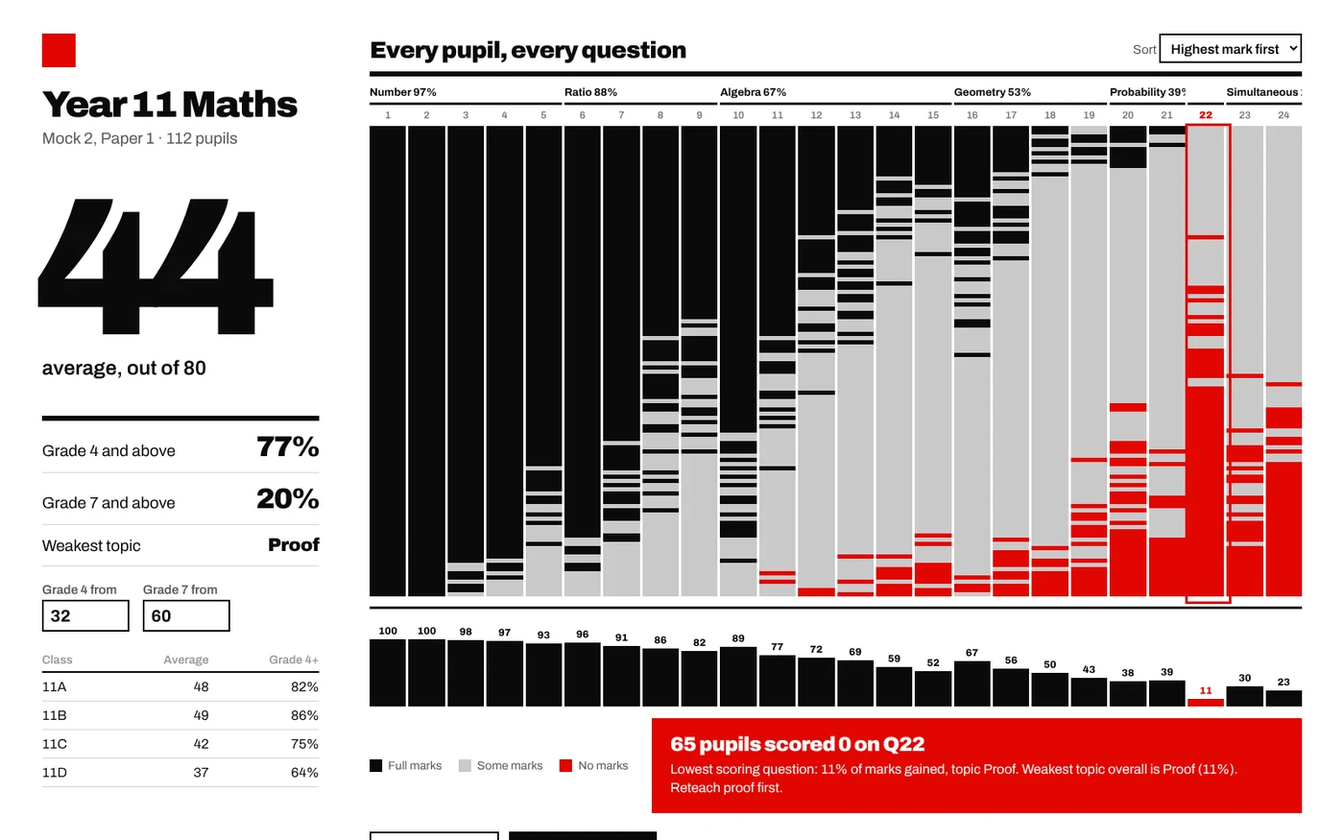
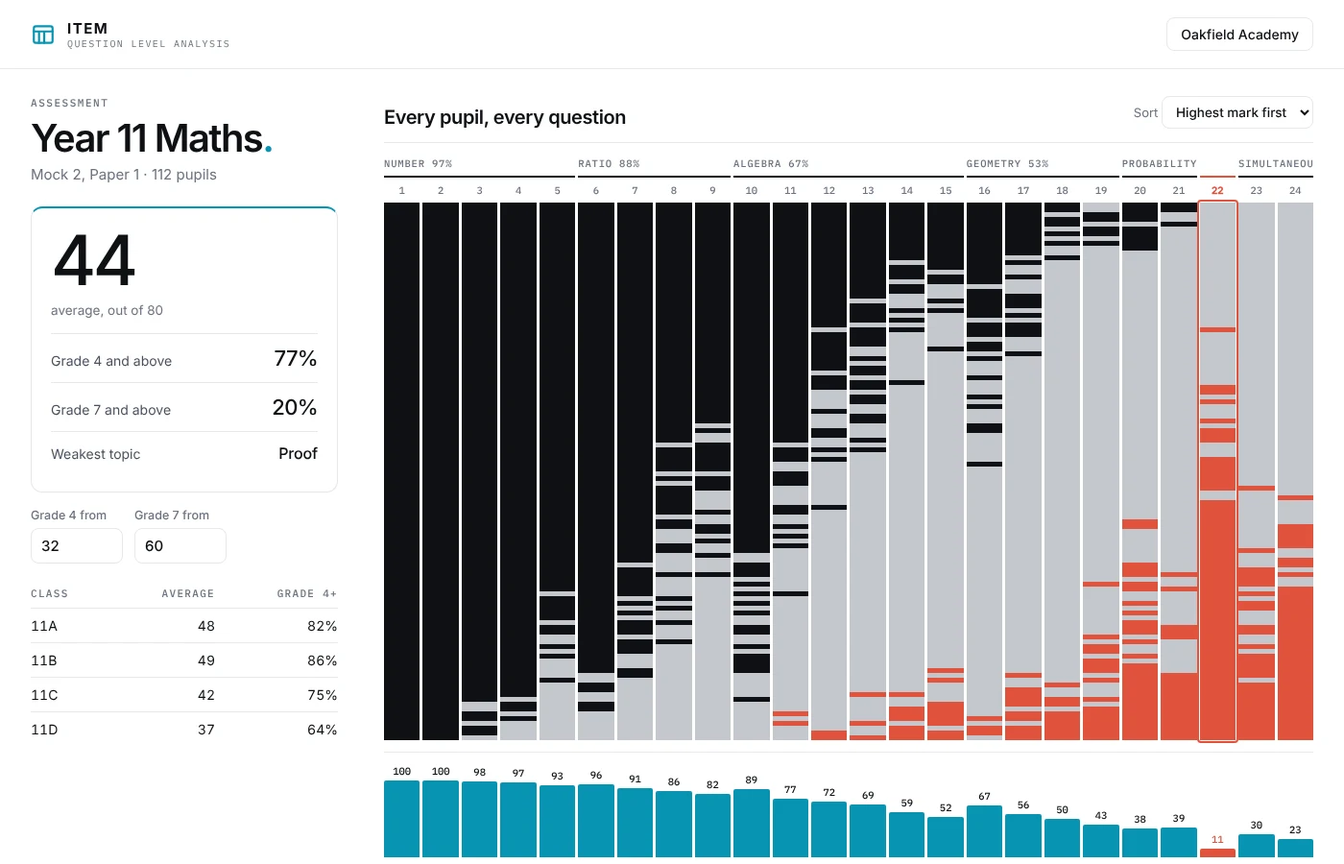
Restyle Crash Course, Stand-in, Radar and Item in house style with their own accents
Claude-Session: https://claude.ai/code/session_01Vzqd2uBpa3mPXkx52Xw1Gi

diff --git a/prototypes/item.html b/prototypes/item.html
@@ -1,61 +1,67 @@
 <!doctype html><html lang="en"><head><meta charset="utf-8"><meta name="viewport" content="width=device-width,initial-scale=1,viewport-fit=cover"><title>Item</title></head><body>
-<link rel="stylesheet" href="https://fonts.googleapis.com/css2?family=Archivo:wght@400;600;700;900&display=swap">
+<link rel="stylesheet" href="https://fonts.googleapis.com/css2?family=Inter:wght@400;500;600;700&family=IBM+Plex+Mono:wght@400;500&display=swap">
 <style>
-/* Layout: Swiss grid. Left rail of headline numbers, right side a pupil-by-question matrix where the red shows the gap. */
-:root{--bg:#FFFFFF;--fg:#0A0A0A;--mute:#5A5A5A;--soft:#999;--rule:#D4D4D4;--part:#C9C9C9;--red:#E10600;--f:'Archivo','Helvetica Neue',Arial,sans-serif;color-scheme:light}
+:root{--bg:#fff;--fg:#0F1115;--mute:#6B7280;--line:#E6E7EA;--hover:#F4F4F5;--acc:#0894B2;--accd:#066E85;--acct:#EEF8FB;--accb:#B9E2EC;--red:#E0533D;--redt:#FFF5F3;--redb:#F0C4BB;--ok:#1E6B3C;--okt:#F1FAF4;--okb:#BFE3CC;--f:'Inter',system-ui,sans-serif;--m:'IBM Plex Mono',ui-monospace,monospace;color-scheme:light}
+*{box-sizing:border-box}
 html,body{background:var(--bg);overflow-x:clip}
-body{margin:0;color:var(--fg);font-family:var(--f);padding-left:max(16px,env(safe-area-inset-left,0px));padding-right:max(16px,env(safe-area-inset-right,0px))}
-.page{max-width:1500px;margin:0 auto;display:grid;grid-template-columns:330px minmax(0,1fr);gap:60px;padding-block:40px 24px}
-@media (max-width:980px){.page{grid-template-columns:1fr;gap:28px}}
-.sq{width:40px;height:40px;background:var(--red)}
-h1{font-weight:900;font-size:44px;line-height:1;letter-spacing:-.045em;margin:22px 0 0}
-.sub{font-size:19px;color:var(--mute);margin-top:8px}
-.num{font-weight:900;font-size:230px;line-height:.8;letter-spacing:-.07em;margin:54px 0 0 -10px}
-.of{font-size:24px;font-weight:600;margin-top:12px}
-.d{font-size:20px;color:var(--red);font-weight:700;margin-top:4px}
-.st{margin-top:44px;border-top:6px solid var(--fg)}
-.st div{display:flex;justify-content:space-between;align-items:baseline;padding:12px 0;border-bottom:1px solid var(--rule);font-size:19px;gap:10px}
-.st b{font-weight:900;font-size:34px;letter-spacing:-.04em}
-.bound{display:flex;gap:16px;margin-top:20px;font-size:15px;color:var(--mute)}
-.bound label{display:flex;flex-direction:column;gap:4px;font-weight:600}
-.bound input{width:84px;font:700 20px var(--f);padding:6px 8px;border:2px solid var(--fg);border-radius:0;background:var(--bg);color:var(--fg)}
-input:focus-visible,button:focus-visible,select:focus-visible,label.btn:focus-visible{outline:3px solid var(--red);outline-offset:2px}
-.ct{width:100%;border-collapse:collapse;margin-top:26px;font-size:16px}
-.ct th{text-align:left;font-weight:600;color:var(--soft);font-size:14px;padding:0 0 6px;border-bottom:2px solid var(--fg)}
-.ct td{padding:8px 0;border-bottom:1px solid var(--rule);font-variant-numeric:tabular-nums}.ct td:not(:first-child),.ct th:not(:first-child){text-align:right}
-.hd{display:flex;justify-content:space-between;align-items:flex-end;gap:16px;flex-wrap:wrap;border-bottom:6px solid var(--fg);padding-bottom:10px}
-.hd h2{font-weight:900;font-size:28px;letter-spacing:-.03em;margin:0}
-.hd select{font:600 16px var(--f);border:2px solid var(--fg);border-radius:0;padding:6px 8px;background:var(--bg);color:var(--fg)}
+body{margin:0;color:var(--fg);font-family:var(--f)}
+.hb{max-width:1500px;margin:0 auto;padding:0 32px;display:flex;align-items:center;justify-content:space-between;gap:16px;height:72px;border-bottom:1px solid var(--line)}
+.logo{display:flex;gap:12px;align-items:center}.logo b{display:block;font:700 15px var(--f);letter-spacing:.1em}.logo small{display:block;font:400 10px var(--m);letter-spacing:.14em;color:var(--mute)}
+.hb .sch{border:1px solid var(--line);border-radius:8px;padding:8px 14px;font:500 14px var(--f)}
+.eb{font:500 11px var(--m);letter-spacing:.14em;color:var(--mute);text-transform:uppercase}
+.ttl{font:600 clamp(30px,4vw,40px)/1.1 var(--f);letter-spacing:-.04em;margin:8px 0 0}.ttl span{color:var(--acc)}
+:root{--soft:#9AA0AA;--rule:#E6E7EA;--part:#C4C7CD}
+.page{max-width:1500px;margin:0 auto;display:grid;grid-template-columns:320px minmax(0,1fr);gap:48px;padding:28px 32px 24px}
+@media (max-width:980px){.page{grid-template-columns:1fr;gap:28px;padding:24px 16px}.hb{padding:0 16px}}
+.sq{display:none}
+h1{font:600 clamp(30px,4vw,40px)/1.1 var(--f);letter-spacing:-.04em;margin:8px 0 0}h1:after{content:".";color:var(--acc)}
+.sub{font-size:15px;color:var(--mute);margin-top:6px}
+.kc{border:1px solid var(--line);border-top:2px solid var(--acc);border-radius:12px;padding:18px 20px;margin-top:24px}
+.num{font:500 72px/1 var(--f);letter-spacing:-.05em;margin:0}
+.of{font-size:13.5px;color:var(--mute);margin-top:8px}
+.d{font-size:13.5px;color:var(--red);font-weight:600;margin-top:4px}
+.st{margin-top:16px}
+.st div{display:flex;justify-content:space-between;align-items:baseline;padding:12px 0;border-top:1px solid var(--line);font-size:14px;gap:10px;color:#4B5260}
+.st b{font:500 22px var(--f);letter-spacing:-.03em;color:var(--fg)}
+.bound{display:flex;gap:12px;margin-top:16px;font-size:12.5px;color:var(--mute)}
+.bound label{display:flex;flex-direction:column;gap:6px;font-weight:500}
+.bound input{width:96px;font:500 15px var(--f);padding:8px 10px;border:1px solid var(--line);border-radius:8px;background:#fff;color:var(--fg)}
+input:focus-visible,button:focus-visible,select:focus-visible,label.btn:focus-visible{outline:2px solid var(--acc);outline-offset:2px}
+.ct{width:100%;border-collapse:collapse;margin-top:24px;font-size:14px}
+.ct th{text-align:left;font:500 11px var(--m);letter-spacing:.12em;text-transform:uppercase;color:var(--mute);padding:0 0 8px}
+.ct td{padding:9px 0;border-top:1px solid var(--line);font-variant-numeric:tabular-nums}.ct td:not(:first-child),.ct th:not(:first-child){text-align:right}
+.hd{display:flex;justify-content:space-between;align-items:flex-end;gap:16px;flex-wrap:wrap;border-bottom:1px solid var(--line);padding-bottom:14px}
+.hd h2{font:600 20px var(--f);letter-spacing:-.02em;margin:0}
+.hd select{font:500 13.5px var(--f);border:1px solid var(--line);border-radius:8px;padding:7px 10px;background:#fff;color:var(--fg)}
 .mxw{overflow-x:auto}
 .mx{min-width:760px}
 .row{display:grid;gap:3px}
-.band{font-size:13px;font-weight:700;border-bottom:3px solid var(--fg);padding:12px 0 5px;white-space:nowrap;overflow:hidden;text-overflow:clip}
-.band.red{color:var(--red)}
-.qn{font-size:12px;color:#777;font-weight:600;text-align:center;margin-top:5px}
-.qn.red{color:var(--red);font-weight:900}
+.band{font:500 10.5px var(--m);letter-spacing:.08em;text-transform:uppercase;color:var(--mute);border-bottom:2px solid var(--fg);padding:14px 0 6px;white-space:nowrap;overflow:hidden;text-overflow:clip}
+.band.red{color:var(--red);border-color:var(--red)}
+.qn{font:500 10.5px var(--m);color:var(--mute);text-align:center;margin-top:6px}
+.qn.red{color:var(--red);font-weight:600}
 .cells{display:grid;gap:0 3px;margin-top:6px;position:relative}
 .c{height:var(--rh,5px)}.f{background:var(--fg)}.p{background:var(--part)}.z{background:var(--red)}
-.hot{position:absolute;border:3px solid var(--red);pointer-events:none}
-.pc{display:grid;gap:0 3px;margin-top:12px;align-items:end;height:110px;border-top:3px solid var(--fg);padding-top:6px}
-.col{display:flex;flex-direction:column;justify-content:flex-end;align-items:center;gap:3px;height:100%;font-size:12px;font-weight:800}
-.col i{display:block;width:100%;background:var(--fg)}
-.under{display:flex;gap:28px;align-items:stretch;flex-wrap:wrap;margin-top:14px}
-.leg{display:flex;gap:20px;font-size:14px;color:var(--mute);align-items:center;flex-wrap:wrap}.leg i{display:inline-block;width:15px;height:15px;margin-right:7px;vertical-align:-3px}
-.call{background:var(--red);color:#fff;padding:18px 22px;flex:1;min-width:280px}
-.call b{font-weight:900;font-size:24px;letter-spacing:-.03em;display:block}.call span{font-size:16px;line-height:1.4;display:block;margin-top:6px}
-.tools{margin-top:22px;display:flex;gap:12px;flex-wrap:wrap;align-items:center;font-size:14px;color:var(--mute)}
-.btn{font:700 15px var(--f);background:var(--fg);color:#fff;border:2px solid var(--fg);border-radius:0;padding:10px 16px;cursor:pointer}.btn.g{background:var(--bg);color:var(--fg)}
-.msg{width:100%}.msg.bad{color:var(--red)}
-.foot{font-size:14px;color:var(--soft);margin-top:18px}
-.page>div{min-width:0}
+.hot{position:absolute;border:2px solid var(--red);border-radius:4px;pointer-events:none}
+.pc{display:grid;gap:0 3px;margin-top:12px;align-items:end;height:110px;border-top:1px solid var(--line);padding-top:6px}
+.col{display:flex;flex-direction:column;justify-content:flex-end;align-items:center;gap:3px;height:100%;font:500 10.5px var(--m)}
+.col i{display:block;width:100%;background:var(--acc);border-radius:2px 2px 0 0}
+.under{display:flex;gap:24px;align-items:stretch;flex-wrap:wrap;margin-top:16px}
+.leg{display:flex;gap:18px;font-size:12.5px;color:var(--mute);align-items:center;flex-wrap:wrap}.leg i{display:inline-block;width:12px;height:12px;border-radius:3px;margin-right:6px;vertical-align:-2px}
+.call{background:#23262D;color:#ECEEF1;border-left:3px solid var(--red);border-radius:12px;padding:16px 20px;flex:1;min-width:280px}
+.call b{font:600 17px var(--f);letter-spacing:-.02em;display:block;color:#fff}.call span{font-size:14px;line-height:1.55;display:block;margin-top:6px;color:#C9CDD4}
+.tools{margin-top:20px;display:flex;gap:8px;flex-wrap:wrap;align-items:center;font-size:12.5px;color:var(--mute)}
+.btn{font:600 13.5px var(--f);background:var(--fg);color:#fff;border:1px solid var(--fg);border-radius:10px;padding:10px 16px;cursor:pointer}.btn.g{background:#fff;color:var(--fg);border-color:var(--line)}
+.msg{width:100%;line-height:1.5}.msg.bad{color:var(--red)}
+.foot{font-size:12.5px;color:#9AA0AA;margin-top:12px}
 </style>
-<div class="page">
-<div><div class="sq"></div><h1 id="title">Year 11 Maths</h1><div class="sub" id="sub"></div>
-<div class="num" id="avg">0</div><div class="of" id="of"></div><div class="d" id="delta"></div>
-<div class="st"><div>Grade 4 and above<b id="g4">0%</b></div><div>Grade 7 and above<b id="g7">0%</b></div><div>Weakest topic<b id="wt" style="font-size:22px;letter-spacing:-.02em;text-align:right">-</b></div></div>
+<div class="hb"><div class="logo"><svg width="26" height="26" viewBox="0 0 24 24" fill="none" stroke="#0894B2" stroke-width="2" stroke-linecap="round" stroke-linejoin="round"><rect x="3" y="4" width="18" height="16" rx="2"/><path d="M3 9h18M8 9v11M13 9v11"/></svg><div><b>ITEM</b><small>QUESTION LEVEL ANALYSIS</small></div></div><div class="sch">Oakfield Academy</div></div><div class="page">
+<div><div class="eb">Assessment</div><h1 id="title">Year 11 Maths</h1><div class="sub" id="sub"></div>
+<div class="kc"><div class="num" id="avg">0</div><div class="of" id="of"></div><div class="d" id="delta"></div>
+<div class="st"><div>Grade 4 and above<b id="g4">0%</b></div><div>Grade 7 and above<b id="g7">0%</b></div><div>Weakest topic<b id="wt" style="font-size:16px;letter-spacing:-.01em;text-align:right">-</b></div></div></div>
 <div class="bound"><label>Grade 4 from<input id="b4" type="number" min="0" value="32"></label><label>Grade 7 from<input id="b7" type="number" min="0" value="60"></label></div>
 <table class="ct" id="ct"></table></div>
-<div><div class="hd"><h2>Every pupil, every question</h2><label style="font-size:15px;color:var(--mute)">Sort <select id="sort"><option value="hi">Highest mark first</option><option value="lo">Lowest mark first</option><option value="cl">By class</option></select></label></div>
+<div><div class="hd"><h2>Every pupil, every question</h2><label style="font-size:13px;color:var(--mute)">Sort <select id="sort"><option value="hi">Highest mark first</option><option value="lo">Lowest mark first</option><option value="cl">By class</option></select></label></div>
 <div class="mxw"><div class="mx"><div class="row" id="bands"></div><div class="row" id="qn"></div><div class="cells" id="cells"></div><div class="pc" id="pc"></div></div></div>
 <div class="under"><div class="leg"><span><i style="background:var(--fg)"></i>Full marks</span><span><i style="background:var(--part)"></i>Some marks</span><span><i style="background:var(--red)"></i>No marks</span></div>
 <div class="call" id="call"></div></div>

diff --git a/prototypes/standin.html b/prototypes/standin.html
@@ -1,63 +1,65 @@
 <!doctype html><html lang="en"><head><meta charset="utf-8"><meta name="viewport" content="width=device-width,initial-scale=1,viewport-fit=cover"><title>Stand-in</title></head><body>
-<link rel="stylesheet" href="https://fonts.googleapis.com/css2?family=IBM+Plex+Mono:wght@500;600&family=IBM+Plex+Sans+Condensed:wght@400;500;600&display=swap">
+<link rel="stylesheet" href="https://fonts.googleapis.com/css2?family=Inter:wght@400;500;600;700&family=IBM+Plex+Mono:wght@400;500&display=swap">
 <style>
-/* Layout: a departure board. Big clock, one row per uncovered lesson, tally of fairness at the foot. */
-:root{--bg:#0E0F11;--panel:#16181B;--line:#2A2D33;--row:#1E2024;--fg:#EDE9DF;--mute:#8C9099;--dim:#5A5E66;--amber:#FFB020;--green:#3DDC84;--red:#FF5A47;
---cond:'IBM Plex Sans Condensed','Plex Cond','Arial Narrow',sans-serif;--mono:'IBM Plex Mono',ui-monospace,monospace;color-scheme:dark}
-html,body{background:var(--bg)}
-body{margin:0;color:var(--fg);font-family:var(--cond);padding-left:max(16px,env(safe-area-inset-left,0px));padding-right:max(16px,env(safe-area-inset-right,0px))}
-.scroll{overflow-x:auto}
-.board{min-width:1120px;max-width:1500px;margin:0 auto}
-.top{display:flex;align-items:flex-end;justify-content:space-between;gap:24px;padding:36px 0 22px}
-.clock{font:600 112px/.85 var(--mono);color:var(--amber);letter-spacing:-7px;text-shadow:0 0 40px rgba(255,176,32,.22)}
-.date{font-size:22px;color:var(--mute);margin-top:14px}
-.counts{display:flex;gap:48px}
-.counts b{display:block;font:600 60px/1 var(--mono);letter-spacing:-3px}
-.counts span{font-size:19px;color:var(--mute)}
-.g b{color:var(--green)}.r b{color:var(--red)}
-.off{display:flex;flex-wrap:wrap;gap:8px;align-items:center;padding:14px 0 18px;border-top:2px solid var(--line)}
-.off h2{font-size:18px;font-weight:500;color:var(--mute);margin:0 14px 0 0}
-.chip{font:500 17px var(--cond);color:var(--mute);background:var(--panel);border:1px solid var(--line);border-radius:3px;padding:6px 12px;cursor:pointer}
-.chip[aria-pressed=true]{color:#0E0F11;background:var(--amber);border-color:var(--amber);font-weight:600}
-.chip:focus-visible,.btn:focus-visible,select:focus-visible{outline:2px solid var(--amber);outline-offset:2px}
-.hd,.row{display:grid;grid-template-columns:96px 1.1fr 190px 36px 1.2fr 1.2fr 150px;align-items:center;gap:0 8px}
-.hd{height:40px;font-size:16px;color:var(--dim);border-top:2px solid var(--line);border-bottom:1px solid var(--row)}
-.row{height:74px;border-bottom:1px solid var(--row)}
-.row.bad{background:linear-gradient(90deg,rgba(255,90,71,.14),rgba(255,90,71,0))}
-.p{font:600 32px var(--mono);color:var(--amber);width:66px;height:48px;border:2px solid #34373E;border-radius:3px;display:flex;align-items:center;justify-content:center;background:var(--panel)}
-.row.bad .p{color:var(--red)}
-.cls{font-size:28px;font-weight:600}.cls small{font-size:18px;color:var(--mute);font-weight:400;margin-left:10px}
-.abs{font-size:22px;color:var(--dim);text-decoration:line-through;text-decoration-thickness:2px}
-.arr{font:500 26px var(--mono);color:#4A4D55}
-select{appearance:none;background:transparent;color:var(--fg);border:1px solid transparent;border-radius:3px;font:600 30px var(--cond);padding:2px 22px 2px 6px;margin-left:-6px;cursor:pointer;max-width:100%;
-background-image:linear-gradient(45deg,transparent 50%,var(--mute) 50%),linear-gradient(135deg,var(--mute) 50%,transparent 50%);background-position:calc(100% - 12px) 55%,calc(100% - 7px) 55%;background-size:5px 5px;background-repeat:no-repeat}
-select:hover{border-color:var(--line)}
-select option{background:#1b1d21;color:var(--fg);font:500 18px var(--cond)}
-.row.bad select{color:var(--red)}
-.why{font-size:19px;color:#9DA1AA}
-.st{display:flex;align-items:center;gap:10px;font-size:19px;font-weight:600}
-.led{width:13px;height:13px;border-radius:50%;flex:none}
-.ok{color:var(--green)}.ok .led{background:var(--green);box-shadow:0 0 12px var(--green)}
-.pend{color:var(--amber)}.pend .led{background:var(--amber);box-shadow:0 0 12px var(--amber)}
-.no{color:var(--red)}.no .led{background:var(--red);box-shadow:0 0 12px var(--red)}
-.btn{font:600 18px var(--cond);color:#0E0F11;background:var(--amber);border:0;border-radius:3px;padding:8px 14px;cursor:pointer}
-.btn.ghost{background:transparent;color:var(--amber);border:1px solid var(--amber)}
-.empty{padding:46px 0;font-size:24px;color:var(--mute)}
+:root{--bg:#fff;--fg:#0F1115;--mute:#6B7280;--line:#E6E7EA;--hover:#F4F4F5;--acc:#D6336C;--accd:#A8204F;--acct:#FDF0F4;--accb:#F3C2D3;--red:#C2412B;--redt:#FFF5F3;--redb:#F0C4BB;--ok:#1E6B3C;--okt:#F1FAF4;--okb:#BFE3CC;--f:'Inter',system-ui,sans-serif;--m:'IBM Plex Mono',ui-monospace,monospace;color-scheme:light}
+*{box-sizing:border-box}
+html,body{background:var(--bg);overflow-x:clip}
+body{margin:0;color:var(--fg);font-family:var(--f)}
+.hb{max-width:1500px;margin:0 auto;padding:0 32px;display:flex;align-items:center;justify-content:space-between;gap:16px;height:72px;border-bottom:1px solid var(--line)}
+.logo{display:flex;gap:12px;align-items:center}.logo b{display:block;font:700 15px var(--f);letter-spacing:.1em}.logo small{display:block;font:400 10px var(--m);letter-spacing:.14em;color:var(--mute)}
+.hb .sch{border:1px solid var(--line);border-radius:8px;padding:8px 14px;font:500 14px var(--f)}
+.eb{font:500 11px var(--m);letter-spacing:.14em;color:var(--mute);text-transform:uppercase}
+.ttl{font:600 clamp(30px,4vw,40px)/1.1 var(--f);letter-spacing:-.04em;margin:8px 0 0}.ttl span{color:var(--acc)}
+.scroll{overflow-x:auto;padding:0 32px}
+.board{min-width:1080px;max-width:1436px;margin:0 auto}
+.top{display:flex;align-items:flex-end;justify-content:space-between;gap:24px;padding:28px 0 24px;border-bottom:1px solid var(--line)}
+.clock{font:500 64px/1 var(--f);letter-spacing:-.05em;color:var(--fg);margin-top:14px;font-variant-numeric:tabular-nums}
+.date{font-size:15px;color:var(--mute);margin-top:6px}
+.counts{display:grid;grid-template-columns:repeat(3,170px);gap:12px}
+.counts>div{border:1px solid var(--line);border-radius:12px;padding:14px 18px}
+.counts b{display:block;font:600 30px/1 var(--f);letter-spacing:-.03em;margin-bottom:8px}
+.counts span{font-size:13px;color:var(--mute)}
+.g{border-top:2px solid var(--ok)!important}.r{border-top:2px solid var(--red)!important}.counts>div:first-child{border-top:2px solid var(--acc)}
+.off{display:flex;flex-wrap:wrap;gap:6px;align-items:center;padding:20px 0}
+.off h2{font:500 11px var(--m);letter-spacing:.14em;text-transform:uppercase;color:var(--mute);margin:0 12px 0 0}
+.chip{font:500 13px var(--f);color:#4B5260;background:#fff;border:1px solid var(--line);border-radius:8px;padding:7px 12px;cursor:pointer}
+.chip[aria-pressed=true]{color:#fff;background:var(--acc);border-color:var(--acc)}
+.chip:focus-visible,.btn:focus-visible,select:focus-visible{outline:2px solid var(--acc);outline-offset:2px}
+.hd,.row{display:grid;grid-template-columns:72px 1.1fr 170px 28px 1.2fr 1.3fr 170px;align-items:center;gap:0 8px}
+.hd{height:36px;font:500 11px var(--m);letter-spacing:.12em;text-transform:uppercase;color:var(--mute);border-bottom:1px solid var(--line)}
+.row{height:64px;border-bottom:1px solid var(--line)}
+.row.bad{background:var(--redt)}
+.p{font:500 14px var(--m);color:var(--fg);width:44px;height:32px;border:1px solid var(--line);border-radius:7px;display:flex;align-items:center;justify-content:center;background:#fff}
+.row.bad .p{color:var(--red);border-color:var(--redb)}
+.cls{font-size:15px;font-weight:600}.cls small{font-size:13px;color:var(--mute);font-weight:400;margin-left:8px}
+.abs{font-size:14px;color:var(--mute);text-decoration:line-through}
+.arr{font-size:18px;color:var(--acc)}
+select{appearance:none;background:#fff;color:var(--fg);border:1px solid var(--line);border-radius:8px;font:500 14px var(--f);padding:8px 28px 8px 10px;cursor:pointer;max-width:100%;
+background-image:linear-gradient(45deg,transparent 50%,var(--mute) 50%),linear-gradient(135deg,var(--mute) 50%,transparent 50%);background-position:calc(100% - 14px) 55%,calc(100% - 9px) 55%;background-size:5px 5px;background-repeat:no-repeat}
+.row.bad select{color:var(--red);border-color:var(--redb)}
+.why{font-size:13.5px;color:var(--mute)}
+.st{display:flex;align-items:center;gap:8px;font-size:13px;font-weight:600}
+.led{width:8px;height:8px;border-radius:50%;flex:none}
+.ok{color:var(--ok)}.ok .led{background:var(--ok)}
+.pend{color:var(--accd)}.pend .led{background:var(--acc)}
+.no{color:var(--red)}.no .led{background:var(--red)}
+.btn{font:600 14px var(--f);color:#fff;background:var(--fg);border:1px solid var(--fg);border-radius:10px;padding:10px 18px;cursor:pointer}
+.btn.ghost{background:#fff;color:var(--fg);border:1px solid var(--line);padding:6px 12px;font-size:12.5px;border-radius:8px}
+.empty{padding:40px 0;font-size:15px;color:var(--mute)}
 .tools{display:flex;justify-content:space-between;align-items:center;padding:16px 0}
-.tools span{font-size:18px;color:var(--mute)}
-.free{border-top:2px solid var(--line);background:var(--panel);padding:22px 24px;display:flex;gap:44px;align-items:center;flex-wrap:wrap;margin-top:8px}
-.free h4{font-size:19px;font-weight:600;color:var(--mute);width:190px;margin:0;line-height:1.25}
-.free h4 span{display:block;color:var(--dim);font-weight:400}
-.t b{font-size:24px;font-weight:600;display:block}
-.tally{font:500 24px var(--mono);color:var(--amber);letter-spacing:2px;height:30px;white-space:pre}
+.tools span{font-size:14px;color:var(--mute)}
+.free{border:1px solid var(--line);border-radius:12px;padding:20px 24px;display:flex;gap:36px;align-items:center;flex-wrap:wrap;margin-top:8px}
+.free h4{font:600 15px var(--f);width:180px;margin:0;line-height:1.3}
+.free h4 span{display:block;color:var(--mute);font-weight:400;font-size:13px}
+.t b{font-size:14px;font-weight:600;display:block}
+.tally{font:500 16px var(--m);color:var(--acc);letter-spacing:1px;height:22px;white-space:pre}
 .tally.hot{color:var(--red)}
-.foot{padding:20px 0 36px;font-size:15px;color:var(--dim)}
-@media (prefers-reduced-motion:no-preference){.led{transition:background .3s}}
+.foot{padding:18px 0 36px;font-size:13px;color:#9AA0AA}
 </style>
-<div class="scroll"><div class="board">
-<div class="top"><div><div class="clock" id="clock">00:00</div><div class="date" id="date"></div></div>
+<div class="hb"><div class="logo"><svg width="26" height="26" viewBox="0 0 24 24" fill="none" stroke="#D6336C" stroke-width="2" stroke-linecap="round" stroke-linejoin="round"><rect x="4" y="5" width="16" height="15" rx="2"/><path d="M4 10h16M9 3v4M15 3v4M9 15l2 2 4-4"/></svg><div><b>STAND-IN</b><small>COVER BOARD</small></div></div><div class="sch">Oakfield Academy</div></div><div class="scroll"><div class="board">
+<div class="top"><div><div class="eb">Cover today</div><div class="clock" id="clock">00:00</div><div class="date" id="date"></div></div>
 <div class="counts"><div><b id="nAbs">0</b><span>staff absent</span></div><div class="g"><b id="nCov">0</b><span>lessons confirmed</span></div><div class="r"><b id="nSup">0</b><span>need supply</span></div></div></div>
-<div class="off"><h2>Who is off today? Tap to mark absent</h2><span id="chips" style="display:contents"></span></div>
+<div class="off"><h2>Who is off today</h2><span id="chips" style="display:contents"></span></div>
 <div class="hd"><div>Period</div><div>Class</div><div>Absent</div><div></div><div>Cover</div><div>Why this person</div><div>Status</div></div>
 <div id="rows"></div>
 <div class="tools"><span id="supplyNote"></span><button class="btn" id="confirmAll">Confirm all suggestions</button></div>

diff --git a/prototypes/radar.html b/prototypes/radar.html
@@ -1,52 +1,56 @@
 <!doctype html><html lang="en"><head><meta charset="utf-8"><meta name="viewport" content="width=device-width,initial-scale=1,viewport-fit=cover"><title>Radar</title></head><body>
-<link rel="stylesheet" href="https://fonts.googleapis.com/css2?family=Space+Grotesk:wght@400;500;600;700&display=swap">
+<link rel="stylesheet" href="https://fonts.googleapis.com/css2?family=Inter:wght@400;500;600;700&family=IBM+Plex+Mono:wght@400;500&display=swap">
 <style>
-/* Layout: one huge attendance figure over a year-by-day heatmap, with a ranked list of pupils nearing the 10% line. */
-:root{--bg:#06201B;--fg:#D8F5EA;--hi:#EFFFF8;--mint:#6CF0C2;--mute:#6FA396;--soft:#8FB8AB;--line:rgba(108,240,194,.18);--c0:#0F3B31;--c1:#14584A;--c2:#E8C547;--c3:#FF6B57;--warn:#FF7A66;
---f:'Space Grotesk','Segoe UI',system-ui,sans-serif;color-scheme:dark}
+:root{--bg:#fff;--fg:#0F1115;--mute:#6B7280;--line:#E6E7EA;--hover:#F4F4F5;--acc:#1E9E5A;--accd:#157443;--acct:#EFF8F2;--accb:#BFE3CF;--red:#C2412B;--redt:#FFF5F3;--redb:#F0C4BB;--ok:#1E6B3C;--okt:#F1FAF4;--okb:#BFE3CC;--f:'Inter',system-ui,sans-serif;--m:'IBM Plex Mono',ui-monospace,monospace;color-scheme:light;*{box-sizing:border-box}
 html,body{background:var(--bg);overflow-x:clip}
-body{margin:0;color:var(--fg);font-family:var(--f);padding-left:max(16px,env(safe-area-inset-left,0px));padding-right:max(16px,env(safe-area-inset-right,0px));position:relative}
-.rings{position:absolute;right:-260px;top:-300px;opacity:.22;pointer-events:none}
-.page{position:relative;max-width:1480px;margin:0 auto;display:grid;grid-template-columns:minmax(0,1fr) 410px;gap:56px;padding-block:44px 28px}
-@media (max-width:1000px){.page{grid-template-columns:1fr;gap:32px}}
-.lab{font-size:20px;color:var(--mint);font-weight:500;display:flex;align-items:center;gap:14px}
-.lab i{width:10px;height:10px;border-radius:50%;background:var(--mint);box-shadow:0 0 0 6px rgba(108,240,194,.18)}
-.big{font-weight:700;font-size:clamp(120px,18vw,250px);line-height:.95;letter-spacing:-.055em;color:var(--hi);margin-top:6px;white-space:nowrap}
-.big sup{font-size:.36em;letter-spacing:-.02em;color:var(--mint);vertical-align:top;position:relative;top:.12em;margin-left:.04em}
-.delta{display:flex;flex-wrap:wrap;gap:8px 28px;font-size:20px;color:var(--soft);margin-top:-4px}
-.delta b{color:var(--mint);font-weight:600}.delta b.r{color:var(--warn)}
-.heatwrap{overflow-x:auto;margin-top:30px;padding-bottom:6px}
-.heat{display:grid;grid-template-columns:44px auto;gap:0 10px;min-width:700px}
-.yl{display:grid;grid-auto-rows:44px;gap:4px;font-size:17px;color:var(--mute);align-items:center}
-.grid{display:flex;gap:10px}
-.wk{display:grid;grid-template-columns:repeat(5,1fr);grid-auto-rows:44px;gap:4px;flex:1}
-.c{border-radius:5px;min-width:14px}
-.c.e{background:transparent}
-.days{display:flex;margin:12px 0 0 54px;font-size:18px;color:var(--soft);gap:24px;flex-wrap:wrap}
-.days b{color:var(--hi);font-weight:600}.days .low b{color:var(--warn)}
-.leg{display:flex;gap:20px;flex-wrap:wrap;font-size:16px;color:var(--mute);margin-top:22px;align-items:center}
-.leg i{display:inline-block;width:15px;height:15px;border-radius:4px;margin-right:7px;vertical-align:-3px}
-.side h2{font-size:32px;font-weight:600;letter-spacing:-.03em;line-height:1.1;margin:0 0 8px}
-.side .s{font-size:17px;color:var(--mute);margin:0 0 22px}
-.pu{padding:17px 0;border-top:1px solid var(--line);cursor:pointer}
-.pu:focus-visible{outline:2px solid var(--mint);outline-offset:2px}
-.pu .n{display:flex;justify-content:space-between;align-items:baseline;font-size:25px;font-weight:600}
-.pu .n span{font-size:17px;color:var(--mute);font-weight:400}
-.pu .pt{font-size:16px;color:var(--soft);margin:3px 0 9px}
-.b{height:8px;border-radius:5px;background:rgba(108,240,194,.12);overflow:hidden}.b i{display:block;height:100%;border-radius:5px;background:linear-gradient(90deg,var(--c2),var(--c3))}
-.pu .r{font-size:15px;color:#FF9B8B;margin-top:7px;display:flex;justify-content:space-between}
-.strip{display:none;gap:2px;margin-top:12px;flex-wrap:wrap}.pu.open .strip{display:flex}
-.strip i{width:12px;height:18px;border-radius:2px;display:block}
-.tools{display:flex;gap:12px;flex-wrap:wrap;align-items:center;margin-top:26px;font-size:15px;color:var(--mute)}
-.btn{font:600 15px var(--f);color:#06201B;background:var(--mint);border:0;border-radius:8px;padding:10px 16px;cursor:pointer}
-.btn.g{background:transparent;color:var(--mint);border:1px solid var(--mint)}
-.btn:focus-visible{outline:2px solid #fff;outline-offset:2px}
-.msg{color:var(--warn);font-size:15px;width:100%}
-.foot{grid-column:1/-1;font-size:14px;color:#3F6E62}
+body{margin:0;color:var(--fg);font-family:var(--f)}
+.hb{max-width:1500px;margin:0 auto;padding:0 32px;display:flex;align-items:center;justify-content:space-between;gap:16px;height:72px;border-bottom:1px solid var(--line)}
+.logo{display:flex;gap:12px;align-items:center}.logo b{display:block;font:700 15px var(--f);letter-spacing:.1em}.logo small{display:block;font:400 10px var(--m);letter-spacing:.14em;color:var(--mute)}
+.hb .sch{border:1px solid var(--line);border-radius:8px;padding:8px 14px;font:500 14px var(--f)}
+.eb{font:500 11px var(--m);letter-spacing:.14em;color:var(--mute);text-transform:uppercase}
+.ttl{font:600 clamp(30px,4vw,40px)/1.1 var(--f);letter-spacing:-.04em;margin:8px 0 0}.ttl span{color:var(--acc)}
+--c0:#1E9E5A;--c1:#A7DABE;--c2:#F2C14E;--c3:#E0533D;--warn:#C2412B;--soft:#4B5260}
+:root{--c0:#1E9E5A;--c1:#A7DABE;--c2:#F2C14E;--c3:#E0533D;--warn:#C2412B;--soft:#4B5260}
+.page{max-width:1500px;margin:0 auto;display:grid;grid-template-columns:minmax(0,1fr) 400px;gap:48px;padding:28px 32px 28px}
+@media (max-width:1000px){.page{grid-template-columns:1fr;gap:32px;padding:24px 16px}.hb{padding:0 16px}}
+.lab{font:500 11px var(--m);letter-spacing:.14em;text-transform:uppercase;color:var(--mute);display:flex;align-items:center;gap:10px}
+.lab i{width:8px;height:8px;border-radius:50%;background:var(--acc)}
+.big{font:400 clamp(72px,9vw,120px)/1 var(--f);letter-spacing:-.05em;color:var(--fg);margin-top:10px;white-space:nowrap}
+.big sup{font-size:.36em;letter-spacing:-.02em;color:var(--acc);vertical-align:top;position:relative;top:.18em;margin-left:.04em}
+.delta{display:flex;flex-wrap:wrap;gap:8px 24px;font-size:14.5px;color:var(--mute);margin-top:10px;padding-bottom:22px;border-bottom:1px solid var(--line)}
+.delta b{color:var(--accd);font-weight:600}.delta b.r{color:var(--red)}
+.heatwrap{overflow-x:auto;margin-top:24px;padding-bottom:6px}
+.heat{display:grid;grid-template-columns:40px auto;gap:0 10px;min-width:680px}
+.yl{display:grid;grid-auto-rows:36px;gap:3px;font:500 12px var(--m);color:var(--mute);align-items:center}
+.grid{display:flex;gap:8px}
+.wk{display:grid;grid-template-columns:repeat(5,1fr);grid-auto-rows:36px;gap:3px;flex:1}
+.c{border-radius:4px;min-width:12px}
+.c.e{background:var(--hover)}
+.days{display:flex;margin:12px 0 0 50px;font-size:13px;color:var(--mute);gap:20px;flex-wrap:wrap}
+.days b{color:var(--fg);font-weight:600}.days .low b{color:var(--red)}
+.leg{display:flex;gap:18px;flex-wrap:wrap;font-size:12.5px;color:var(--mute);margin-top:18px;align-items:center}
+.leg i{display:inline-block;width:12px;height:12px;border-radius:3px;margin-right:6px;vertical-align:-2px}
+.side{border:1px solid var(--line);border-radius:12px;padding:22px 24px;align-self:start}
+.side h2{font:600 20px/1.2 var(--f);letter-spacing:-.02em;margin:0 0 6px}
+.side .s{font-size:13.5px;color:var(--mute);margin:0 0 16px;line-height:1.5}
+.pu{padding:14px 0;border-top:1px solid var(--line);cursor:pointer}
+.pu:focus-visible{outline:2px solid var(--acc);outline-offset:2px}
+.pu .n{display:flex;justify-content:space-between;align-items:baseline;font-size:15px;font-weight:600}
+.pu .n span{font:500 11px var(--m);letter-spacing:.08em;color:var(--mute);text-transform:uppercase}
+.pu .pt{font-size:13px;color:var(--mute);margin:3px 0 9px}
+.b{height:6px;border-radius:4px;background:var(--hover);overflow:hidden}.b i{display:block;height:100%;border-radius:4px;background:linear-gradient(90deg,var(--c2),var(--c3))}
+.pu .r{font-size:12.5px;color:var(--red);margin-top:7px;display:flex;justify-content:space-between}
+.strip{display:none;gap:2px;margin-top:10px;flex-wrap:wrap}.pu.open .strip{display:flex}
+.strip i{width:10px;height:16px;border-radius:2px;display:block}
+.tools{display:flex;gap:8px;flex-wrap:wrap;align-items:center;margin-top:18px;font-size:12.5px;color:var(--mute)}
+.btn{font:600 13.5px var(--f);color:#fff;background:var(--fg);border:1px solid var(--fg);border-radius:10px;padding:10px 16px;cursor:pointer}
+.btn.g{background:#fff;color:var(--fg);border:1px solid var(--line)}
+.btn:focus-visible{outline:2px solid var(--acc);outline-offset:2px}
+.msg{color:var(--mute);font-size:12.5px;width:100%;line-height:1.5}
+.foot{grid-column:1/-1;font-size:12.5px;color:#9AA0AA}
 .page>div{min-width:0}
 </style>
-<svg class="rings" width="900" height="900" viewBox="-450 -450 900 900" fill="none" stroke="#6CF0C2" stroke-width="1.2" aria-hidden="true"><circle r="120"/><circle r="230"/><circle r="340"/><circle r="440"/><line x1="-450" x2="450"/><line y1="-450" y2="450"/></svg>
-<div class="page">
+<div class="hb"><div class="logo"><svg width="26" height="26" viewBox="0 0 24 24" fill="none" stroke="#1E9E5A" stroke-width="2" stroke-linecap="round" stroke-linejoin="round"><circle cx="12" cy="12" r="9"/><circle cx="12" cy="12" r="5"/><path d="M12 12l5-5"/></svg><div><b>RADAR</b><small>ATTENDANCE PATTERNS</small></div></div><div class="sch">Oakfield Academy</div></div><div class="page">
 <div>
 <div class="lab"><i></i><span id="period">Attendance</span></div>
 <div class="big"><span id="att">0</span><sup>%</sup></div>

diff --git a/prototypes/crashcourse/index.html b/prototypes/crashcourse/index.html
@@ -1,4 +1,4 @@
-<!doctype html><html lang="en"><head><meta charset="utf-8"><meta name="viewport" content="width=device-width,initial-scale=1"><meta name="theme-color" content="#f8f6f2"><title>Crash Course</title><link rel="stylesheet" href="style.css?v=20261023-mastery01"><link rel="stylesheet" href="family.css?v=20261023-mastery01"><link rel="stylesheet" href="maths/maths.css?v=20261023-mastery01"></head><body>
+<!doctype html><html lang="en"><head><meta charset="utf-8"><meta name="viewport" content="width=device-width,initial-scale=1"><meta name="theme-color" content="#f8f6f2"><title>Crash Course</title><link rel="stylesheet" href="style.css?v=20261023-mastery01"><link rel="stylesheet" href="family.css?v=20261023-mastery01"><link rel="stylesheet" href="maths/maths.css?v=20261023-mastery01"><link rel="stylesheet" href="tessera-house.css"></head><body>
 <aside class="sidebar"><a class="brand" href="./" aria-label="Crash Course home"><svg class="brand-mark" width="44" height="44" viewBox="0 0 44 44" fill="none" aria-hidden="true"><circle cx="22" cy="22" r="21" fill="#F5E5DC"/><path d="M10.5 15.5C14.5 13.5 18.5 14 22 16.5C25.5 14 29.5 13.5 33.5 15.5V30C29.5 28 25.5 28.5 22 31C18.5 28.5 14.5 28 10.5 30V15.5Z" stroke="#182E44" stroke-width="1.8" stroke-linecap="round" stroke-linejoin="round"/><path d="M22 16.5V31M15 19.5C16.5 19.3 17.5 19.6 19 20.3M15 23.5C16.5 23.3 17.5 23.6 19 24.3" stroke="#182E44" stroke-width="1.5" stroke-linecap="round"/><path d="M28 18.5V25" stroke="#CA715F" stroke-width="2" stroke-linecap="round"/><circle cx="33" cy="9" r="2.5" fill="#ED8B78"/></svg><span class="brand-wordmark"><span>Crash</span><span>Course</span></span></a><label class="subject-label" for="subject">Subject</label><select id="subject" class="subject-select"><option value="science">Science</option><option value="maths">Maths</option><option value="english-language">English Language</option><option value="english-literature">English Literature</option><option value="history">History</option><option value="geography">Geography</option></select><button class="nav active" id="lessonNav"><svg class="nav-icon" viewBox="0 0 24 24" fill="none" stroke="currentColor" stroke-width="1.6" stroke-linecap="round" stroke-linejoin="round" aria-hidden="true"><path d="M12 5C9 3 5 3 3 4v15c3-1 6-1 9 1 3-2 6-2 9-1V4c-2-1-6-1-9 1zM12 5v15"/></svg><span id="studioLabel">Science studio</span><span class="nav-count">01</span></button><button class="nav" id="progressButton"><svg class="nav-icon" viewBox="0 0 24 24" fill="none" stroke="currentColor" stroke-width="1.6" stroke-linecap="round" aria-hidden="true"><path d="M4 20V12M12 20V4M20 20V8"/></svg><span>My progress</span><small id="progressBadge">0 / 0</small></button><button class="nav" id="mapButton"><svg class="nav-icon" viewBox="0 0 24 24" fill="none" stroke="currentColor" stroke-width="1.6" stroke-linecap="round" stroke-linejoin="round" aria-hidden="true"><path d="M3 5l6-2 6 2 6-2v16l-6 2-6-2-6 2V5zM9 3v16M15 5v16"/></svg><span>Course map</span></button><button class="nav" id="reviewButton"><svg class="nav-icon" viewBox="0 0 24 24" fill="none" stroke="currentColor" stroke-width="1.6" stroke-linecap="round" stroke-linejoin="round" aria-hidden="true"><path d="M4 10a8 8 0 1 1 1 8M4 4v6h6M12 8v5l3 2"/></svg><span>Review</span><span id="reviewCount" class="nav-count">0</span></button><button class="nav" id="assessmentButton"><svg class="nav-icon" viewBox="0 0 24 24" fill="none" stroke="currentColor" stroke-width="1.6" stroke-linecap="round" stroke-linejoin="round" aria-hidden="true"><rect x="5" y="4" width="14" height="17" rx="2"/><path d="M9 4V2h6v2M8 12l2 2 5-5M8 18h8"/></svg><span>Topic assessment</span></button><div class="side-course"><h3 id="courseName">AQA GCSE Science</h3><label for="route">Your pathway</label><select id="route"><option value="combined">Combined · Trilogy</option><option value="separate">Separate sciences</option></select><select id="tier" aria-label="Tier"><option>Foundation</option><option>Higher</option></select><div class="progress-label"><span id="progressLabel">Topic progress</span><span id="sideProgress">0 / 4</span></div><div class="progress-track"><i id="progressFill"></i></div></div><div class="side-bottom"><button class="text-button" id="reset">Reset lesson</button></div></aside>
 <main><header><div class="breadcrumb">Science <span>/</span> Chemistry <span>/</span> Atomic structure</div><span class="save-status" id="saveStatus">Saved on this device</span></header><div id="plannedSubject" hidden></div><div id="scienceContent"><section class="intro"><div><div class="eyebrow"><span id="studioName" hidden>ATOMIC STRUCTURE STUDIO</span> <span class="intro-number" id="lessonNumber">LESSON 01</span></div><h1></h1><p hidden></p></div><div class="lesson-meta" id="lessonMeta"><span>CHEMISTRY · FIRST PRINCIPLES</span><p>Atoms, elements<br>& compounds</p><div>◷ 15–20 min <span>•</span> Both tiers</div></div></section>
 <div class="topic-toolbar"><label for="topic">Chemistry topic</label><select id="topic" class="lab-select"></select></div><div class="lesson-toolbar"><button class="text-button" id="lessonsButton">Lessons</button><span id="lessonStatus">Ready to explore</span><button class="text-button" id="nextLessonButton">Next lesson →</button></div><nav class="steps" aria-label="Lesson stages"><button data-stage="0" class="selected"><b>01</b> Discover <span hidden></span></button><button data-stage="1"><b>02</b> Investigate <span hidden></span></button><button data-stage="2"><b>03</b> Practise <span hidden></span></button><button data-stage="3"><b>04</b> Check <span hidden></span></button></nav>

diff --git a/prototypes/crashcourse/tessera-house.css b/prototypes/crashcourse/tessera-house.css
@@ -1,0 +1,42 @@
+/* Tessera house style overlay for the Crash Course showcase copy */
+@import url("https://fonts.googleapis.com/css2?family=Inter:wght@400;500;600;700&family=IBM+Plex+Mono:wght@400;500&display=swap");
+:root{--navy:#0F1115;--coral:#E2A10F;--cream:#fff;--muted:#6B7280;--line:#E6E7EA;--white:#fff;--outer:#F4F4F5;--warm:#9A6B00;--subtle:#4B5260;--serif:'Inter',system-ui,sans-serif;--sans:'Inter',system-ui,sans-serif;--ink:#0F1115;--paper:#fff;--green:#0F1115;--acc:#E2A10F;--accd:#9A6B00;--accl:#FDF6E3;--m:'IBM Plex Mono',ui-monospace,monospace}
+html,body,.sidebar{background:#fff!important}
+body,button,select,input{font-family:'Inter',system-ui,sans-serif!important}
+h1,h2,h3,.brand-wordmark,.activity h2,.scene-title h2,.lesson-meta p,dialog h2,.subject-card b,.recall-visual h3,.counter{font-family:'Inter',system-ui,sans-serif!important;font-weight:600!important;letter-spacing:-.035em!important}
+.intro h1,h1{font-size:clamp(30px,3.6vw,40px)!important;line-height:1.1!important}
+.intro h1:after{content:".";color:var(--acc)}
+.eyebrow,.live-pill,.intro-number,.lesson-meta>span,.progress-label,.scene-title>span:first-child,.subject-label,.course-label{font-family:var(--m)!important;letter-spacing:.14em!important;text-transform:uppercase;color:#6B7280!important;font-weight:500!important}
+.sidebar{border-right:1px solid #E6E7EA!important}
+.brand-wordmark{flex-direction:row!important;gap:6px!important;font-size:15px!important;font-weight:700!important;letter-spacing:.1em!important;text-transform:uppercase;color:#0F1115!important}
+.brand-wordmark>span{font-weight:700!important;letter-spacing:.1em!important;font-size:15px!important;font-family:'Inter',sans-serif!important}
+.brand-mark{width:30px!important;height:30px!important}.brand-mark circle:first-of-type{fill:#FDF6E3}.brand-mark path{stroke:#0F1115}.brand-mark path:nth-of-type(3){stroke:#E2A10F}.brand-mark circle:last-of-type{fill:#E2A10F}
+.nav{background:none!important;color:#4B5260!important;border-radius:8px!important;border-left:3px solid transparent!important;font-weight:500!important}
+.nav.active{background:#F4F4F5!important;color:#0F1115!important;font-weight:600!important;border-left-color:#0F1115!important}
+.nav .nav-icon{color:inherit}
+.subject-select,.side-course select,.lab-select,select{border-color:#E6E7EA!important;border-radius:8px!important;background-color:#fff!important;color:#0F1115!important}
+.progress-track{background:#F4F4F5!important}.progress-track i{background:var(--acc)!important}
+.steps{background:#fff!important;border:1px solid #E6E7EA!important;border-radius:10px!important;padding:3px!important}
+.steps button{border-radius:7px!important;color:#4B5260!important}
+.steps .selected{background:#0F1115!important;color:#fff!important}.steps .selected b{color:#fff!important}
+.steps b{font-family:var(--m)!important}
+.workspace{border:1px solid #E6E7EA!important;border-radius:12px!important}
+.scene-panel{background:radial-gradient(ellipse at 48% 42%,#2C3038,#1A1C21 62%,#15171B)!important}
+.scene-button,.model-view-controls button{background:#ffffff0d!important;border:1px solid #ffffff26!important;color:#D6D9DE!important;border-radius:8px!important}
+.scene-title #sceneFormula{border-color:#ffffff33!important;color:#E9EBEE!important}
+.primary,#continue{background:#0F1115!important;color:#fff!important;border-radius:10px!important;font-weight:600!important}
+.primary:hover,#continue:hover{background:#2A2E37!important}
+.secondary{border-color:#E6E7EA!important;color:#0F1115!important;border-radius:10px!important;background:#fff!important}
+.reading-dots button{border-color:#E6E7EA!important;color:#4B5260!important}
+.reading-dots .current{background:#0F1115!important;color:#fff!important;border-color:#0F1115!important}
+.choice{border-color:#E6E7EA!important;border-radius:10px!important;color:#0F1115!important}
+.choice.selected,.particle-select .chosen,.subject-card.selected{background:var(--accl)!important;border-color:var(--acc)!important;color:#0F1115!important}
+.callout{background:#F4F4F5!important;border-left-color:var(--acc)!important;color:#4B5260!important}
+#feedback:not(:empty){background:#F1FAF4!important;color:#1E6B3C!important}
+#feedback.error{background:#FFF5F3!important;color:#C2412B!important}
+header{border-bottom-color:#E6E7EA!important}
+.lesson-toolbar .text-button,.prerequisites .text-button{color:#0F1115!important}
+dialog{background:#fff!important;border-color:#E6E7EA!important;border-radius:12px!important}
+.lesson-row,.subject-card{border-color:#E6E7EA!important;color:#0F1115!important;border-radius:10px!important}
+.lesson-row:hover{background:#F4F4F5!important}
+input[type=range]{accent-color:#0F1115!important}
